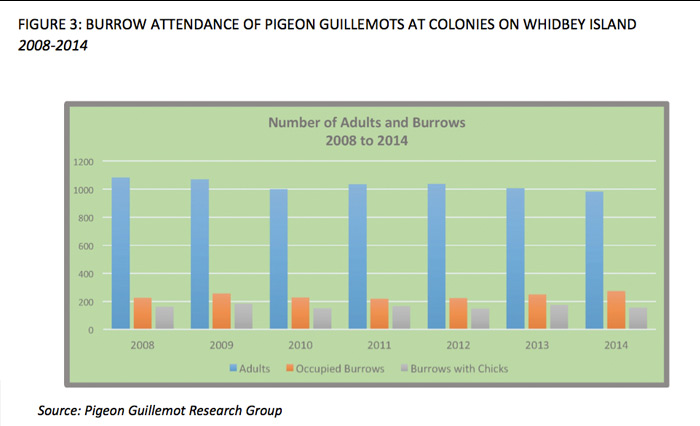
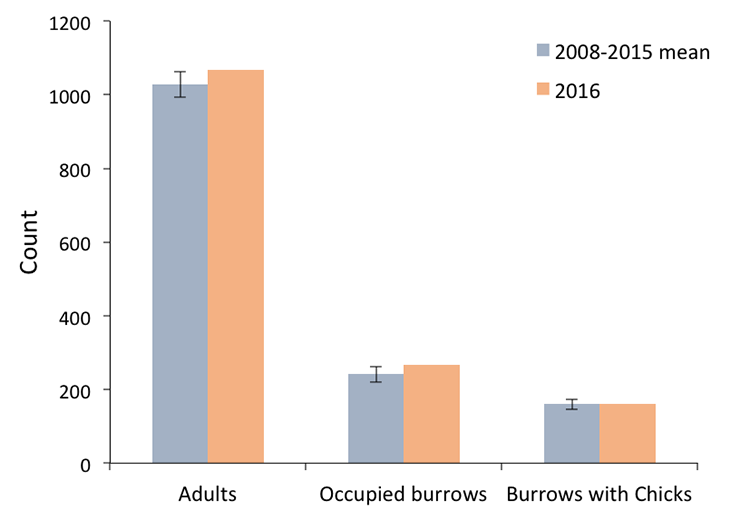
updates

diff --git a/includes/freshwater_quality-title.html b/includes/freshwater_quality-title.html
@@ -11,7 +11,7 @@
 			</div>
 		</div>
 		<div id="vitalheaderrightphoto">
-			<div class="photoCredit">Data last updated on October 7, 2016<br />
+			<div class="photoCredit">Data last updated on June 28, 2017<br />
 			Photo Credit: Dan Bennett</div></div>
 	</div>
 	<div id="roundcornerbottom"><img src="img/rounded_rounded_bottom.jpg" width="960" height="20" /></div>

diff --git a/includes/birds_title.html b/includes/birds_title.html
@@ -15,7 +15,7 @@
 			</div>
 		</div>
 		<div id="vitalheaderrightphoto">
-			<div class="photoCredit">Data last updated on March 25th, 2016<br />
+			<div class="photoCredit">Data last updated on June 28, 2017 <br />
 				Photo Credit: USFWS</div>
 		</div>
 	</div>

diff --git a/birds_indicator1.php b/birds_indicator1.php
@@ -40,25 +40,19 @@ $(function() {
 			<div> 
 				<!--*********************************PINK HEADER*********************************-->
 				<div class="pinkBarHeader">What is the indicator? </div>
-				<p>This indicator is the abundance of marine bird populations.</p>
+				<p>The indicator is the abundance of marine bird populations. </p>
+				  <p>The marine bird population indicator measures population abundance and trends of a handful of bird species that nest or overwinter in the marine environment. The indicator includes:</p>
+				<ol><li>Spring/summer at-sea densities of marbled murrelet, rhinoceros auklet and pigeon guillemot. These species are highly dependent on the marine environment of, and breed in, Puget Sound and Strait of Juan de Fuca.</li>
+					<li>At-sea abundance trends of scoter species that overwinter in Puget Sound and Strait of Juan de Fuca. These species are highly dependent on the marine environment of Puget Sound and the Strait of Juan de Fuca, but do not breed there.</li></ol>
+					<p>The species selected for this indicator reside in Puget Sound most, if not all, of the year. The indicator provides an integrative view of the health of species that depend upon the Puget Sound for survival, in contrast to the species being indirect indicators of something like habitat quality, contaminants, or prey.</p>
+				<p>The Washington State Department of Fish and Wildlife conducts marine bird surveys in the spring/summer months and in January for wintering birds. The spring/summer surveys are boat-based and are part of <a href="http://www.reo.gov/monitoring/reports/marbled-murrelet-reports-publications.shtml">the Northwest Forest Plan effectiveness monitoring program for the Marbled Murrelet</a>. During these surveys, observers also record other species detected. <a href="http://wdfw.wa.gov/publications/01135/">WDFW also conducts winter surveys</a> from airplanes that allow us to assess abundance and trends of scoters and other over-wintering species.</p>
+				<p>The marine bird indicator was officially endorsed by the Science Panel at their April 9, 2014 meeting. The endorsement was based on a peer-reviewed report written jointly by the Washington State Department of Fish and Wildlife and the Puget Sound Partnership. The report, titled <a href="http://www.psp.wa.gov/vitalsigns/documents/Pearson%20and%20Hamel%20Bird%20Indicators%2020 13_Final.pdf">&ldquo;Marine and Terrestrial Bird Indicators for Puget Sound,&rdquo;</a> develops, presents, and uses a transparent process to identify and evaluate potential indicators and ultimately recommend marine bird indicators. <br>
+					The peer-review process was coordinated by the Puget Sound Partnership Science Panel in 2013. The report was finalized in April of 2014. The indicators were also endorsed by the Leadership Council in January 2014. Supplemental material to the report is linked here (<a href="http://www.psp.wa.gov/vitalsigns/documents/Bird%20Indicator%20Supplementary%20material%20S1_ 2JAN13.xlsx">Bird Indicator Supplementary material S1_2JAN13</a>.)</p>
+				
 				
 				<!--*********************************PINK HEADER*********************************-->
-				<div class="pinkBarHeader">What are the indicators?</div>
-				<p>The marine bird population indicator serves as measures of population abundance of marine species.</p>
-				<p>Marine bird indicators:</p>
-				<ol>
-					<li>Spring/summer at-sea densities of rhinoceros auklet, pigeon guillemot and marbled murrelet. These species are highly dependent on the marine environment of, and breed in, Puget Sound and Strait of Juan de Fuca. </li>
-					<li>At-sea abundance trends of scoter species that overwinter in Puget Sound and Strait of Juan de Fuca. These species are highly dependent on the marine environment of Puget Sound and the Strait of Juan de Fuca, but do not breed there. </li>
-				</ol>
-				<p>The indicator was chosen because it serves as measures of the size of marine populations that reside most, if not all, of the year in Puget Sound. In addition, the indicator provides an integrative view of the health of Puget Sound, in contrast to being indicators of something specific like habitat, contaminants, or prey. </p>
-				<p>The Washington State Department of Fish and Wildlife, the USGS Patuxent Wildlife Research Center and the Puget Sound Partnership are collaborating to compile and analyze existing data. Initial results are expected in 2014.</p>
-				<p>The marine bird indicator for the Bird Vital Sign was officially endorsed by the Science Panel at their April 9, 2014 meeting. The endorsement was based on a peer-reviewed report written jointly by the Washington State Department of Fish and Wildlife and the Puget Sound Partnership. The report, titled “<a href="http://www.psp.wa.gov/vitalsigns/documents/Pearson and Hamel Bird Indicators 2013_Final.pdf">Marine and Terrestrial Bird Indicators for Puget Sound</a>,” develops, presents, and uses a transparent process to identify and evaluate potential indicators and ultimately recommend marine bird indicators.</p>
-				<p>The peer-review process was coordinated by the Puget Sound Partnership Science Panel in 2013. The report was finalized in April of 2014. The indicators were also endorsed by the Leadership Council in January 2014. Supplemental material to the report is linked here (<a href="http://www.psp.wa.gov/vitalsigns/documents/Bird Indicator Supplementary material S1_2JAN13.xlsx">Bird Indicator Supplementary material S1_2JAN13.xlsx</a>).</p>
-				<a href="documents/Pearson and Hamel Bird Indicators 2013_Final.pdf" target="_blank"> <a href="documents/Bird Indicator Supplementary material S1_2JAN13.xlsx" target="_blank"> </a> 
-				<!--*********************************PINK HEADER*********************************-->
 				<div class="pinkBarHeader">What are the targets?</div>
-				<p>Is the indicator making progress toward the 2020 target?</p>
-				<h5>&nbsp;</h5>
+				<h5>Is the indicator making progress toward the 2020 target?</h5>
 				<p>There are no targets for this Vital Sign</p>
 				<h5>Interim targets</h5>
 				<p>There currently are no interim targets for this Vital Sign.</p>
@@ -69,55 +63,63 @@ $(function() {
 			<div>
 				<!--*********************************PINK HEADER*********************************-->
 				<div class="pinkBarHeader"><strong>Is the indicator making progress toward the 2020 target? </strong></div>
-				<p> The results for this indicator are mixed.</p>
-				<p><span><img src="images/status_mixed_results.png" width="120" height="123" alt=""/>Data show mixed results for changes over time in marine bird species:</p>
-				<ul>
-					<li>Sound-wide, the densities of pigeon guillemot and rhinoceros auklet have fluctuated year-to-year but show no trend over the past 14 years.</li>
-					<li>In contrast, the marbled murrelet population has declined by 5.4 percent per year over the past 14 years, and this trend is statistically significant.</li>
-					<li>Long-term trends of scoter populations are forthcoming, as a new data analysis and processing approach is in development.</li>
-				</ul>
-				<h5>Latest Data</h5>
-				<img src="images/birds1.png" width="900" height="393" alt=""/> 
-				<!-- TABLE 1 -->
-				<table width="600" border="1" cellspacing="0" cellpadding="0" class="vstable">
-					<caption>
-					TABLE 1:ESTIMATES OF AVERAGE ANNUAL RATE OF POPULATION CHANGE (LINEAR) FOR PUGET SOUND, 2001-2014
-					</caption>
-					<thead>
+				<p><span><img src="images/status_mixed_results.png" width="120" height="123" alt=""/>The results for this indicator are mixed. </p>
+                <p>Species in the marine bird indicator are not all displaying the same pattern in abundance. </p>
+                <ul>
+                  <li>The marbled murrelet population, a species listed as federally threatened, has declined by nearly five percent per year over the past 16 years.</li>
+                  <li>In contrast, the density estimates of pigeon guillemot and rhinoceros auklet have gone up and down year-to-year, but show no trend over the past 16 years. </li>
+                  <li>Sound-wide trends for pigeon guillemot are consistent with local-scale monitoring results and suggest a stable and healthy guillemot population in the Puget Sound region. </li>
+                  <li>Studies suggest that conservation of suitable nesting habitat is key to murrelet recovery. Marine factors related to prey abundance may also play a role in murrelet distribution and trend.</li>
+                </ul>
+				<div class="pinkBarHeader"><strong>Latest Data</strong></div>
+				<h3>FIGURE 1.</h3> <h4>POPULATION DENSITY ESTIMATES AND TRENDS OF MARINE BIRD SPECIES IN PUGET SOUND<br />
+				2001-2016</h4>
+
+			  <img src="images/birds1.png" alt="POPULATION DENSITY ESTIMATES AND TRENDS OF MARINE BIRD SPECIES IN PUGET SOUND"/> 
+				<blockquote><p>Dots are population estimates. Black line shows the linear trend. Grey band is the 95% confidence interval of the trend.<br />
+					<em>Source: Washington Department of Fish &amp; Wildlife</em></p></blockquote>
+
+			  <!-- TABLE 1 -->
+				<h3>
+						TABLE 1.</h3><h4>ESTIMATES OF AVERAGE ANNUAL RATE OF POPULATION CHANGE (LINEAR) FOR PUGET SOUND<br /> 
+						<em>2001-2016</em></h4>
+			  <table width="600" border="1" cellspacing="0" cellpadding="0" class="vstable">
+					
+				<thead>
 						<tr>
 							<th>SPECIES</th>
 							<th>ANNUAL RATE (%)</th>
-							<th>95% LOWER CL FOR ANNUAL RATE</th>
-							<th>95% UPPER CL FOR ANNUAL RATE</th>
-							<th>ADJUSTED R2</th>
+							<th><strong>95% Lower Confidence Limit for Annual Rate</strong></th>
+							<th><strong>95% Upper Confidence Limit for Annual Rate</strong></th>
+							<th>ADJUSTED R<sup>2</sup></th>
 							<th>P-VALUE</th>
 						</tr>
 					</thead>
 					<tbody>
 						<tr>
 							<td>Marbled murrelet</td>
-							<td>-5.4</td>
-							<td>-9.06</td>
-							<td>-1.64</td>
-							<td>-0.40</td>
-							<td>0.009</td>
+							<td>-4.94</td>
+							<td>-7.72</td>
+							<td>-2.08</td>
+							<td>0.45</td>
+							<td>0.003</td>
 						</tr>
 							<tr>
 							<td>Pigeon guillemont</td>
-							<td>-0.04</td>
-							<td>-2.77</td>
-							<td>2.77</td>
+							<td>0.43</td>
+							<td>-1.71</td>
+							<td>2.62</td>
 							<td>0.08</td>
 							<td>0.976</td>
 						</tr>
 						
 						<tr>
 							<td>Rhinoceros auklet</td>
-							<td>1.90</td>
-							<td>-2.12</td>
-							<td>6.09</td>
-							<td>&lt;0.001</td>
-							<td>0.327</td>
+							<td>1.41</td>
+							<td>-1.66</td>
+							<td>4.59</td>
+							<td>0.003</td>
+							<td>0.334</td>
 						</tr>
 							<tr>	
 							<td>Scoter</td>
@@ -129,25 +131,52 @@ $(function() {
 				<br />
 				<!-- END TABLE 1 --> 
 				
-				<p>Sound-wide the density of pigeon guillemot and rhinoceros auklet has varied from year-to-year but with no overall trend over the past 14 years. In contrast, the marbled murrelet population has declined by 5.4% per year over the past 14 years (95% CI = -9.06 to -1.64).  The population estimate for marbled murrelets in Puget Sound and the Strait of Juan de Fuca in 2014 was 2,822 birds (95% confidence interval = 1,668 – 3,836 birds).</p>
-<p>For the scoters (surf, black, and white-winged combined), Washington Department of Fish and Wildlife developed new data analysis and processing approach using data from 2014 as a proof of concept. The mean 2014 winter density for scoters (black, surf, & white-winged scoters) in the Salish Sea was 6.1 scoters per km2 (43,828 – 46,328 birds).  Eighty-eight percent of scoters were observed in shallow waters (less than 20 m depth). Across the Sound and Strait, scoter densities varied by region (basin), with relatively low densities in the San Juan Islands (1.4 birds per km2) to relatively high densities in southern Puget Sound (17.3 birds per km2).  Similar data are currently being compiled for 2015 and years prior to 2014 and trends for scoters are forthcoming. More information can be found <a href="http://www.arcgis.com/home/webmap/viewer.html?webmap=2d7eb8143c3c49679dcf8af25ee20b0a&extent=-127.2413,46.3222,-119.1279,49.3197">here</a></p>
+				<p>Sound-wide, the density of pigeon guillemots and rhinoceros auklet has varied from year-to-year but with no overall trend over the past 16 years. In contrast, density of the marbled murrelet population has declined by nearly 5% per year over the past 16 years (95% CI = -7.7 to –2.1). The population size of marbled murrelets in Puget Sound and the Strait of Juan de Fuca in 2016 was estimated at 4,614 birds (95% confidence interval = 2,298 – 7,570 birds). Most of the murrelet population was found in the Admiralty Inlet, San Juan Islands, and Strait of Juan de Fuca regions. Estimates of population size are not available for pigeon guillemots and rhinoceros auklets. </p>
+				<p>For scoters (surf, black, and white-winged scoter species combined), the Washington Department of Fish and Wildlife developed a new data analysis and processing approach using data from 2014-2016. Estimate of trend over time using this new approach are not yet available. WDFW estimates that there were 50,920 (95% CI =50,000-52,000) scoters (black, surf, &amp; white-winged scoters) in the Salish Sea. Eighty-eight percent of scoters were observed in shallow waters (less than 20 m depth). Across the Sound and Strait, scoter densities varied by region (basin), with high abundance in the eastern end of the Strait of Juan de Fuca, and moderate abundance in the South and Central Puget Sound. Similar data are currently being compiled for the years prior to 2014 and trends for scoters are forthcoming. More information can be found in the <a href="http://www.arcgis.com/home/webmap/viewer.html?webmap=2d7eb8143c3c49679dcf8af25ee20b0a&amp;extent=-127.2413,46.3222,-119.1279,49.3197">Marine Bird Density Atlas.</a></p>
+                <div>
+                  <div> </div>
+                  <div> </div>
+                </div>
 <h5>REPRODUCTIVE SUCCESS AND OTHER FACTORS INFORMING THE INDICATORS</h5>
 <strong><p>Marbled murrelet</p></strong>
-<p>To better understand this species’ decline, and to inform conservation planning for the species, <a href="http://www.reo.gov/monitoring/reports/murrelet/Raphael et al_2014_MAMU habitat associations_ JMarineSyst.pdf">researchers recently evaluated how terrestrial and marine factors influenced the distribution and abundance of the murrelet in coastal waters of the U.S.</a></p>
-<p> This species is dependent on terrestiral habitats where it nests on branches in forests but spends most of its life in the marine environment where it forages for fish. They found that the amount and the continuity of the nesting habitat  has the strongest influence on the spatial and temporal variations in murrelet abundance on the water. They also identified “hot spots” for the murrelet - areas with realtively high abundance that are used consistently by murrelets along the Strait of Juan de Fuca, near Admiralty Inlet and specific areas of the San Juan Archepelago. “Hotspots” of murrelet abundance reflect not only suitable areas for foraging for fish but also the proximity of suitable inland nesting habitat. </p>
+				<p>Although marbled murrelets spend the vast majority of its life at-sea foraging on fish, it is also dependent on forest habitats where it nests on branches of large trees. The species is federally listed as threatened. To better understand marbled murrelet decline, and to inform conservation planning to recover the species, <a href="http://www.reo.gov/monitoring/reports/murrelet/Raphael%20et%20al_2014_MAMU%20habitat%20associations_%20JMarineSyst.pdf">researchers recently evaluated how terrestrial and marine factors influenced the distribution and abundance of the murrelet in coastal waters of the U.S. </a></p>
+			  <p>In 2016, <a href="https://www.fs.fed.us/pnw/pubs/pnw_gtr933.pdf">researchers also completed a 20-year review of the status and trends of murrelet populations and nesting habitat</a>. They found that the murrelet populations in California and Oregon did not exhibit a population trend while the Washington population was declining. They also found that numbers of birds on the water were positively correlated with amounts and pattern (large contiguous patches) of suitable nesting habitat, and that population trend was most strongly correlated with trend in nesting habitat although marine factors also contributed. Their results suggest that conservation of suitable nesting habitat is key to murrelet conservation, but marine factors, especially factors that contribute to murrelet prey abundance, may play a role in murrelet distribution and trend. </p>
+<p><em>Rhinoceros auklet</em><br>
+  Rhinoceros auklets nest in burrows on two islands in Puget Sound, namely Smith and Protection Islands in the Eastern Strait of Juan de Fuca. Peter Hodum (University of Puget Sound), Tom Good (NOAA Fisheries) and Scott Pearson (Washington Department of Fish and Wildlife) have monitored the colony on Protection Island since 2006. Results indicate that burrow occupancy in 2016 (83%) was higher than the long-term mean (72 ± 6%; Fig. 2). Hatching success in 2016 (82% of eggs laid) was similar to the long-term mean (85 ± 5.5%; Fig. 2). However, fledging success in 2016 (49%) was much lower than the long-term mean (77 ± 10%; Fig. 2). This low fledging success is the lowest ever recorded for the island including estimates from the mid-1970s.</p>
+				<p>Over most years, long-term reproductive and population monitoring has been highly consistent across the decades. <a href="https://depts.washington.edu/coasst/news/breaking_news/RHAU%20Fact%20Sheet%209Aug16_2.1.pdf">The exceptionally low fledging success coincided with an unusual number of rhinoceros auklets washing up dead on the beaches in the region</a>. Although the cause of this mortality event are still under investigation, preliminary evidence suggests that bacterial infection was the primary cause of mortality.</p>
+				<p>Protection Island is a globally important nesting site for rhinoceros auklets with over 35,000 occupied burrows and is managed jointly by <a href="http://americanornithologypubs.org/doi/pdf/10.1525/cond.2013.110207">US Fish and Wildlife Service and Washington Department of Fish and Wildlife</a>.</p>
+<p>To learn more about rhinoceros auklets and ongoing research visit:</p>
+<ul>
+	<li><a href="https://www.eopugetsound.org/articles/sounds-rhinoceros-auklets-and-chick">Auklet vocalization</a> </li>
+	<li><a href="https://youtu.be/S8Tz9Yjjyw0">Follow a researcher</a></li>
+	<li><a href="http://birdnote.org/show/monitoring-rhinoceros-auklets-protection-island">More on vocalizations and research</a> </li>
+	<li><a href="https://www.nwfsc.noaa.gov/news/features/pollutants/index.cfm">Auklets and persistent organic pollutants</a></li>
+</ul>
 
-<p><strong>Rhinoceros auklet</strong></p>
-<p>Ongoing monitoring of the burrow nesting seabird conducted by researchers Peter Hodum (University of Puget Sound, Oikonos), Tom Good (NOAA, NW Fisheries Science Center) and Scott Pearson (Washington Department of Fish and Wildlife) on Protection Island near Sequim indicates that burrow occupancy in 2014 (69%) was similar to the mean occupancy between 2006-2013 (70 ± 6%).  Hatching success in 2014 was marginally higher than the 2006-2013 mean (91% vs. 87 ± 4%, respectively).  Overall, fledging success (88%) in 2014 was higher than the average 2006-2014 values (80 ± 4%).  Compared to the mid-1970s (1975 and 1976), burrow occupancy, hatching success and fledging success in the 2014 breeding season were all similar.  The mean values from 2006-2014 were also similar to those from the mid-1970s, although burrow occupancy rates since 2006 have been slightly higher.  Like our long-term population monitoring results above, these results indicate a remarkable inter-decadal consistency in reproductive success parameters for the Protection Island rhinoceros auklet breeding population despite increasing anthropogenic stressors in the Salish Sea ecosystem.  </p>
-<img src="images/birds_figure2.jpg" width="700" height="379" alt=""/> 
+				<h3>FIGURE 2.</h3> 
+				<h4>RHINOCEROS AUKLET BURROW OCCUPANCY, HATCHING AND FLEDGING SUCCESS 
+					2016 COMPARED TO THE 2006-2015 MEAN (±SD) ON PROTECTION ISLAND</h4>
 
-<p><strong>Pigeon guillemot</strong></p>
-<p>Ongoing monitoring of this burrow nesting seabird initiated and conducted by local Whidbey Island residents from 2008 through 2014 [Provide link: http://pigeonguillemot.org/ ] indicates a stable local population.  The number of adult guillemots in the colonies nesting in the bluffs of Whidbey Island averaged 1,030 ± 36 birds.  Occupied burrows, indicated by adults going into the burrow, averaged 238 ± 21 burrows.  Burrows with chicks, indicated by prey delivery to the burrow, averaged 162 ± 13.  These population and reproductive measures, like our long-term monitoring results above, suggest a relatively stable and healthy guillemot population.  </p>
+<img src="images/birds_figure2.jpg" alt=""/> 
+			  <blockquote><p><em>Source: Washington Department of Fish and Wildlife &amp; University of Puget Sound</em></p></blockquote>
 
-<img src="images/birds_figure3.jpg" width="700" height="426" alt=""/>
+<p><em>Pigeon guillemot</em><br>
+	Pigeon guillemots nest in crevices among boulders, under driftwood, or in man-made structures such as a wharf or pipe, or even on cliff faces. Ongoing citizen-science monitoring by <a href="http://pigeonguillemot.org/">local Whidbey Island residents from 2008 through 2016</a> and <a href="http://www.nisquallyestuary.org/research.html">South Sound residents</a> indicates stable local populations. Local population results are consistent with the sound-wide trends in density trends obtained during the spring/summer boat-based surveys.</p>
+  <p>The number of adult guillemots in the colonies nesting in the bluffs of Whidbey Island averaged 1,032 ± 33 birds. Occupied burrows, indicated by adults going into the burrow, averaged 244 ± 20 burrows. Burrows with chicks, indicated by prey delivery to the burrow, averaged 160 ± 12. These population and reproductive measures, like the sound-wide monitoring results above, suggest a stable and healthy guillemot population in the Puget Sound region. </p>
+				<h3>FIGURE 3</h3><h4>COUNTS OF ADULTS, OCCUPIED BURROWS AND BURROWS WITH CHICKS
+				2016 COMPARED TO THE 2008-2015 MEAN (±SD) ON WHIDBEY ISLAND</h4>
 
-<p><strong>Scoters</strong></p>
-<p>The three scoter species (surf, black and white-winged) primarily over-winter in Puget Sound.  They spend about eight months of the year (some non-breeding individuals are here year-round) foraging, replacing their feathers and putting on weight needed to successfully reproduce in high arctic lakes in the summer.  <a href="http://onlinelibrary.wiley.com/doi/10.1111/cobi.12378/abstract">Recently published research by Vilchis et al. (2015) </a>indicates that over-wintering species were three times more likely to exhibit population declines in the Salish Sea than local breeders and that between 1994 and 2010 scoters specifically had declined in 9% of the 67 depth/basin strata evaluted.  In general, Vilchis et al (2015) found that alcids (species like the marbled murrelet and common murre) and sea ducks (species like the scoters) dominated the over-wintering bird community during the 1990s, whereas non-diving bird species and diving species dominated the wintering bird community in the 2000s.</p>
- </div>
+<img src="images/birds_figure3.jpg" alt="COUNTS OF ADULTS, OCCUPIED BURROWS AND BURROWS WITH CHICKS
+				2016 COMPARED TO THE 2008-2015 MEAN (±SD) ON WHIDBEY ISLAND"/>
+
+<p><em>Scoters</em><br>
+	Three scoter species (surf, black and white-winged) over-winter in the Salish Sea. They spend about eight months of the year, with some non-breeding individuals here year-round. They are foraging, replacing their feathers and putting on weight needed to successfully reproduce in high arctic lakes in the summer. <a href="http://onlinelibrary.wiley.com/doi/10.1111/cobi.12378/abstract">Recently published research by Vilchis et al. (2015)</a> indicates that over-wintering species were three times more likely to exhibit population declines in the Salish Sea than local breeders; for scoter, between 1994 and 2010, they declined in 9% of the 67 depth/basin strata evaluted. In general, Vilchis et al (2015) found that alcids (species like the marbled murrelet and common murre) and sea ducks (species like the scoters) dominated the over-wintering bird community during the 1990s, whereas non-diving bird species and diving species with diverse diets dominated the wintering bird community in the 2000s.</p>
+<ul>
+	<li><a href="http://wdfw.wa.gov/conservation/research/projects/waterfowl/puget_sound_scoters/">Learn more about Puget Sound scoters</a></li>
+	<li><a href="http://birdnote.org/show/music-black-scoters">Vocalizations and more</a></li>
+	<li><a href="http://birdnote.org/video/2014/09/surf-scoter-feeding">Scoter foraging video</a> </li>
+</ul>
+          </div>
 		</div>
 	</div>
 	<?php include 'includes/footer.html' ?>

diff --git a/fresh_water_quality_indicator1.php b/fresh_water_quality_indicator1.php
@@ -41,14 +41,12 @@ $(function() {
 			<div> 
 				<!--*********************************AQUA HEADER*********************************-->
 				<div class="aquaBarHeader">What is the indicator? </div>
-				<p>This indicator is the Water Quality Index</p>
-				  <p>Clean freshwater is vital to people and to fish and wildlife populations. When rivers and streams pick up pollutants, toxic contaminants, or excessive sediments and nutrients, the health of watersheds, marine waters, swimming beaches, and shellfish beds are adversely affected.</p>
-				  <p>The Water Quality Index for rivers and streams combines eight measures of water quality. Four of the component measures (dissolved oxygen, pH, temperature, and fecal coliform bacteria) are tied to the State&rsquo;s Water Quality Standards for protecting aquatic life and contact recreation. The other four measures (nitrogen, phosphorus, suspended sediment, and turbidity) do not have numeric standards, although they are related to general ecosystem function. A higher number is indicative of better water quality </p>
-				  <p>Index values are based on monthly monitoring at individual stations. The index values range from 1 to 100; a higher number is indicative of better water quality. However, a particular station may receive a good Water Quality Index score, and yet have water quality impaired by parameters not included in the index. Similarly, some locations may have poor Water Quality Index scores based on measures that do not have Water Quality Standards. </p>
-				  <p>In general, stations scoring 80 and above meet expectations for water quality according to Washington State Standards for surface water quality (Chapter 173-201A WAC), scores 40 to 80 indicate water quality is marginal, and water quality at stations with scores below 40 do not meet expectations. For measures without established criteria, a score of 80 indicates conditions were better than 20 percent of results collected during an historical benchmark period. </p>
-				  <p>The Washington State Department of Ecology, King County, and other jurisdictions monitor 55 long-term monitoring stations across Puget Sound watersheds. These stations are located all along rivers and streams, from the mouth of the rivers to further upstream toward the headwaters. The Puget Sound Partnership&rsquo;s target data come from these 55 stations. Of the 55 long-term monitoring stations, 14 are located near the mouth of major rivers. They are used as useful measures that integrate water conditions in the upper watershed.</p>
-				  <p>Note: Due to recent budget cuts, monitoring at long-term stations was reduced. Since 2014, data were collected at only 28 of the 55 sites.</p>
-<h5>&nbsp;</h5>
+				<p>This indicator is the Water Quality Index			    </p>
+				<p>The Water Quality Index for rivers and streams combines eight measures of water quality. Expectations for four of the component measures (dissolved oxygen, pH, temperature, and fecal coliform bacteria) are tied to the State&rsquo;s Water Quality Standards for protecting aquatic life and contact recreation. The other four measures (nitrogen, phosphorus, suspended sediment, and turbidity) do not have numeric standards however they are related to general ecosystem function. Toxics are not included in the index.</p>
+                  <p>Index values are based on monthly monitoring at individual stations. The index values range from 1 to 100; a higher number is indicative of better water quality. However, a particular station may receive a good Water Quality Index score, and yet have water quality impaired by parameters not included in the index. Similarly, some locations may have poor Water Quality Index scores based on measures that do not have Water Quality Standards.</p>
+              <p>In general, stations scoring 80 and above met expectations for water quality according to Washington State Standards for surface water quality (Chapter 173-201A WAC), scores 40 to 80 indicate water quality is marginal, and water quality at stations with scores below 40 do not meet expectations. For measures without established criteria, a score of 80 indicates conditions were better than 20% of results collected during an historical benchmark period.  </p>
+              <p>The Washington State <strong>Department of Ecology, monitor 31 long-term monitoring</strong> statsions across Puget Sound watersheds. These stations are located all along rivers and streams, from the mouth of the rivers to further upstream toward the headwaters. <strong>The Puget Sound Partnership&rsquo;s target data come from these 31 stations.</strong></p>
+              <h5>&nbsp;</h5>
 
 				<!--*********************************AQUA HEADER*********************************-->
 			  <div class="aquaBarHeader">What are the targets? </div>
@@ -63,49 +61,128 @@ $(function() {
 			<div> 
 				<!--*********************************AQUA HEADER*********************************-->
 				<div class="aquaBarHeader"><strong>Is the indicator making progress toward the 2020 target? </strong></div>
-				<p><span><img src="images/status_not_changing.png" width="118" height="121" alt=""/>There was no significant trend for this indicator.</span></p>
+				<p>At least half of all monitored stations should score 80 or above on the Water Quality Index.</p>
+				<img src="images/target.png" />
  
 
-<p>Results suggest that the water quality for rivers and streams throughout Puget Sound has essentially remained unchanged for at least the past 10 years.</p>
-<ul><li>Only 39 percent of monitored stations were at or above the target value of 80, on average, between 2011 and 2015. This result is lower compared to the baseline reference established for the 2005 – 2009 period (52 percent), but the difference is not significant.</li> 
-<li>Six river systems—Deschutes, Nisqually, Green, Cedar, Samish and Skokomish rivers— had some improvements, but not enough to significantly sway the overall scores.</li></ul> 
+				<blockquote><p>The baseline is the percentage of stations (31 in total) where the average Water Quality Index scores was at or above the target value of 80 from 2007-2011 (32%). The current status is calculated for 2012-2016 (29%). </p> </blockquote>
 
 
 			  <div class="aquaBarHeader">Latest data</div>
-			 <h3>TABLE 1.</h3>
-          <h4>WATER QUALITY INDEX<br />
-<em>2000 – 2015</em></h4>
+				<p>There has been no progress toward the 2020 target for the Water Quality Index. Only 29% of monitored stations were at or above the target value of 80, on average, from 2012 to 2016. This percentage is a few percentage points lower compared to the baseline reference established for the period 2007-2011 (32%), but the difference is not significant. Results suggest that the water quality for rivers and streams throughout Puget Sound has essentially remained unchanged for at least the past 10 years. </p>
 
-            	 <img src="images/water-quality-index.png" alt="Water Quality Index" />
-            <blockquote>
-<p>Annual Water Quality Index scores for monitoring stations near the mouth of 14 major rivers. Scores are calculated for each water year from October 1st to September 30th. Higher numbers indicate better water quality.</p>
+			  <p>However, freshwater quality index scores for major rivers in Puget Sound are in the mid-70s and show a slight improving trend in WQI scores of > 0.32 units per year (p<0.05) since 1996. Variability in WQI scores have also decreased since 1996 at a rate of > 5.0 units per year (p<0.01). In addition to some improvements in the overall mean annual scores since 1996 for major rivers in Puget Sound, fecal coliform bacteria ( .21 units  per year )and total nitrogen index scores (.31 units per year) also improved (p<0.05).  Furthermore, there are some slight reductions in mean annual stream temperature and total suspended sediment concentration on a few systems. However, Puget Sound-wide trends in index scores for other measures were not significant.  In terms of classifying overall water quality on individual Puget Sound stream systems, two river systems show some improving trends that are significant. However, due to the slow rate of improvements in overall Puget Sound water quality trends, the Partnership’s recovery target is not likely to be reached by 2020.</p>
+				<h3>FIGURE 1.</h3> <h4>BAR CHART OF AVERAGE ANNUAL WQI SCORES FOR 14 LONG TERM PUGET SOUND SITES SINCE 1996-2016 </h4>
+			  
+			  <img src="images/fw-chart.png" />
 
-                <p><em>Source: Statewide Water Quality Monitoring Network, Washington State Department of Ecology; Stream and River Water Quality Monitoring, King County.</em></p></blockquote>
-                <h3>FIGURE 1.</h3>
-          <h4>PERCENTAGE OF 28 LONG-TERM MONITORED STATIONS IN EACH WATER QUALITY INDEX SCORE CATEGORY<br />
-<em>2011– 2015</em></h4>
-<img src="images/WQI_percentage.png" alt="PERCENTAGE OF 28 LONG-TERM MONITORED STATIONS IN EACH WATER QUALITY INDEX SCORE CATEGORY"/>
-<blockquote><p><em>Source: Statewide Water Quality Monitoring Network, Washington Department of Ecology; Stream and River Water Quality Monitoring, King County</em></p></blockquote>
-			  <p>From 2011 to 2015, 15 of the 28 monitoring stations (39%) had average Water Quality Index scores of 80 or more. This percentage is less than the 2010-2014 average. Seven stations had averages in the 70 – 79 range; 9 had poor scores (40 – 69); and one station had a very poor index score (&lt; 40). Water Quality Index results for 2011-2015 indicate that 39% of monitoring sites support water quality goals for conventional pollutants (toxics are not included). The majority of stations do not meet expectations for good water quality.</p>
-			    <p>Water quality at the mouth of a river is influenced by what happens further upstream. Thus, the Water Quality Index scores at 14 river mouth monitoring stations gives us an integrated view of upstream conditions. Some river systems are consistently scoring high, i.e., they have high water quality, such as the Cedar, Duckabush and Skokomish River. </p>
-			    <p>Other rivers consistently score low, such as the Nooksack, Puyallup and the North Fork of the Stillaguamish Rivers. Yet, scores from other rivers vary from year to year, like the Skagit and Deschutes. Stations meeting water quality goals are all in the relatively undeveloped Olympic Peninsula, except for the Snohomish River. Stations not meeting water quality goals tend to be in watersheds with more people and more agricultural development. Improvements in fecal coliform bacteria and total nitrogen index scores have also been reported (p &lt; 0.05).</p>
-		      <p>None of the major rivers have had significantly declining Water Quality Index scores since 1995. Water Quality Index scores have improved significantly in the Nisqually, Deschutes, Green, Cedar and Samish systems. </p>
-		      <h3>FIGURE 2.</h3>
-          <h4>AVERAGE ANNUAL WATER QUALITY INDEX SCORES FOR 14 LONG-TERM PUGET SOUND SITES<br />
-<em>1995 – 2015</em></h4>
+			  
+			  <blockquote><p>Trend in Overall WQI scores is indicated by the black trend line. WQI site inter annual variation is indicated by the black error bars. A good water quality is represented by the above 80 target value highlighted in red. </p>
+				  <p>In the longer-term, results from the trend analysis of 14 major rivers at their most downstream sites since 1996 suggest that there has been very little change in water quality at the vast majority of sites.  </p></blockquote>
+				<p>The earliest projection for meeting the target value for these 14 rivers would be 2025. When adjusted for differences in seasonal flows, the trend is much slower: average flow-adjusted scores of 80 are projected for 2060. Flow-adjusting accounts for the effect of flow on the parameters underlying the index. Our projection to and beyond 2020 is a best guess. Predictions are difficult due to fluctuations in drivers like the rate of population growth, global warming, and effectiveness of management activities, as well as possible long-term cycles not visible in the current 15-year dataset. For example, management tends to address the easier and more egregious problems first. As those problems get fixed, remaining problems become more difficult to correct with less effect on the water body for a given level of effort. Consequently, the rate of improvement in the index could be less, perhaps much less, than predicted by simply extending current trends.</p>
+    
+              <h3>TABLE 1.</h3>
+			  <h4>WATER QUALITY INDEX TRENDS FOR PUGET SOUND RIVERS<br /><em>(2006-2016)</em></h4>
+			   <table width="750" border="1" cellspacing="0" cellpadding="0" class="vstable">
+			        <td><p><strong>Station</strong></p></td>
+			       <td><p><strong>01A050</strong></p></td>
+			       <td><p><strong>03A060</strong></p></td>
+			        <td><p><strong>03B050</strong></p></td>
+			        <td><p><strong>04A100</strong></p></td>
+			        <td><p><strong>05A070 </strong></p></td>
+			        <td><p><strong>07A090</strong></p></td>
+			        <td><p><strong>08C070</strong></p></td>
+			        
+		          </tr>
+			      <tr>
+			       <td></td>
+			        <td><p>Nooksack River at Brennan</p></td>
+			       <td><p>Skagit River near Mount Vernon</p></td>
+			       <td><p>Samish River Near Burlington </p></td>
+			        <td><p>Skagit River at Marblemount</p></td>
+			        <td><p>Stillaguamish River near Silvana  </p></td>
+			       <td><p>Snohomish River @ Snohomish</p></td>
+			        <td><p>Cedar River@ Logan</p></td>
+			        
+		          </tr>
+			      <tr>
+			      <td><p><strong>Trend slope</strong></p></td>
+			        <td><p>-0.35</p></td>
+			       <td><p>0.03</p></td>
+			      <td><p>0.03</p></td>
+			        <td><p>-0.02</p></td>
+			      <td><p>0.04</p></td>
+			        <td><p>0.02</p></td>
+			        <td><p>-0.03</p></td>
+			       
+		          </tr>
+			      <tr>
+			     <td><p><strong>Average</strong></p></td>
+			        <td><p>58</p></td>
+			        <td><p>76</p></td>
+			        <td><p>64</p></td>
+			        <td><p>76</p></td>
+			       <td><p>68</p></td>
+			        <td><p>83</p></td>
+			        <td><p>77</p></td>
+			       
+		          </tr>
+			      <tr>
+			        <td><p><strong>Sig. Trend</strong></p></td>
+			        <td><p>N+</p></td>
+			        <td><p>N+</p></td>
+			        <td><p>N+</p></td>
+			        <td><p>N+</p></td>
+			        <td><p>N+</p></td>
+			        <td><p>N+</p></td>
+			       <td><p>N+<strong></strong></p></td>
+			       
+		          </tr>
+		        </table><br /><br />
+		        
+		        <table width="750" border="1" cellspacing="0" cellpadding="0" class="vstable"><tr>
+		        			        <td><p><strong>Station</strong></p></td>
+<td><p><strong>09A080</strong></p></td>
+			        <td><p><strong>10A070</strong></p></td>
+			       <td><p><strong>13A060</strong></p></td>
+			      <td><p><strong>11A070</strong></p></td>
+			    <td><p><strong>18B070</strong></p></td>
+			       <td><p><strong>16A070</strong></p></td>
+					<td><p><strong>16C090</strong></p></td></tr>
+	<tr><td></td><td><p>Green River @ Tukwila</p></td>
+			        <td><p>Puyallup @ Meridian </p></td>
+			       <td><p>Deschutes River @ E St Bridge </p></td>
+			<td><p>Nisqually River @ Nisqually</p></td>
+			        <td><p>Elwah River near Port Angeles </p></td>
+			        <td><p>Skokomish River near Potlach</p></td>
+		<td><p>Duckabush River near Brinnon</p></td></tr>
+		
+		<tr>			      <td><p><strong>Trend slope</strong></p></td>
+<td><p>-0.09</p></td>
+			        <td><p>0.21</p></td>
+			        <td><p>-0.03</p></td>
+			        <td><p>0.20</p></td>
+			        <td><p>-0.49</p></td>
+			        <td><p>0.04</p></td>
+			<td><p>0.04</p></td></tr>
+			<tr>			     <td><p><strong>Average</strong></p></td>
+<td><p>66</p></td>
+			        <td><p>55</p></td>
+			        <td><p>73</p></td>
+			      <td><p>73</p></td>
+			        <td><p>76</p></td>
+			        <td><p>86</p></td>
+				<td><p>90</p></td></tr>
+			<tr>			     <td><p><strong>Sig. Trend</strong></p></td><td><p>N+<strong></strong></p></td>
+			        <td><p>N+</p></td>
+			        <td><p>N+<strong></strong></p></td>
+			        <td><p>N- </p></td>
+			     <td><p>N- </p></td>
+			        <td><p><strong>Y+</strong></p></td>
+			       <td><p><strong>Y+</strong></p></td></tr>
+</table><br /><br />
 
-              <div></div>
-<img src="images/WQI_averageannualscores_2015.png"  alt="AVERAGE ANNUAL WATER QUALITY INDEX SCORES FOR 14 LONG-TERM PUGET SOUND SITES"/>
-<blockquote><p>Bars show average Water Quality Index scores. Site interannual variation is indicated by the error bars. Trend in overall Water Quality Index scores is indicated by the black solid line. Values below 40 (red dotted line) have poor water quality. Values at or above 80 (blue dotted line) have good water quality and meet expectations. </p>
-<p><em>Source: Statewide Water Quality Monitoring Network, Washington Department of Ecology; Stream and River Water Quality Monitoring, King County.</em></p></blockquote>
-
-			  <p>Overall, Water Quality Index scores for major rivers in the Puget Sound have been in the mid-70s and show a slight increasing trend of 0.34 units per year (p &lt; 0.10). The variability in Water Quality Index scores has also decreased since 1995 at a rate of 6.0 units per year (p &lt; 0.05). However, most Water Quality Index scores declined in 2015 during observed drought conditions in the Puget Sound ecoregion. Snow pack driven river systems such as the Snoqualmie and the Skokomish had the greatest reductions in overall annual Water Quality Index scores when compared to 2014. </p>
-			    <p>The earliest projection for meeting the target value for the 14 major rivers would be 2025. When adjusted for differences in seasonal flows, the trend is much slower: average flow-adjusted scores of 80 are projected for 2060.</p>
-		      <p>Adjusting the flow accounts for the effect of flow on the parameters underlying the index. Our projection to and beyond 2020 is a best guess. Predictions are difficult due to fluctuations in drivers like the rate of population growth, global warming, and effectiveness of management activities, as well as possible long-term cycles not visible in the current 15-year dataset. For example, management tends to address the easier and more egregious problems first. As those problems get fixed, remaining problems become more difficult to correct with less effect on the water body for a given level of effort. Consequently, the rate of improvement in the index could be less, perhaps much less, than predicted by simply extending current trends.</p>
-<h4 class="aqua">Why is this happening?</h4>
-				<p>In addition to some improvements in the overall score since 1995 for major rivers in Puget Sound, fecal coliform bacteria and total nitrogen index scores also improved (p&lt;0.05). Furthermore, there are some slight reductions in mean annual stream temperature and total suspended sediment concentration on a few systems. However, Puget Sound-wide trends for other measures were not significant. </p>
-
-				<!--*********************************AQUA HEADER*********************************-->
+<!--*********************************AQUA HEADER*********************************-->
 			  <div class="aquaBarHeader">Maps</div>
 				<p> No Maps</p>
 			</div>
